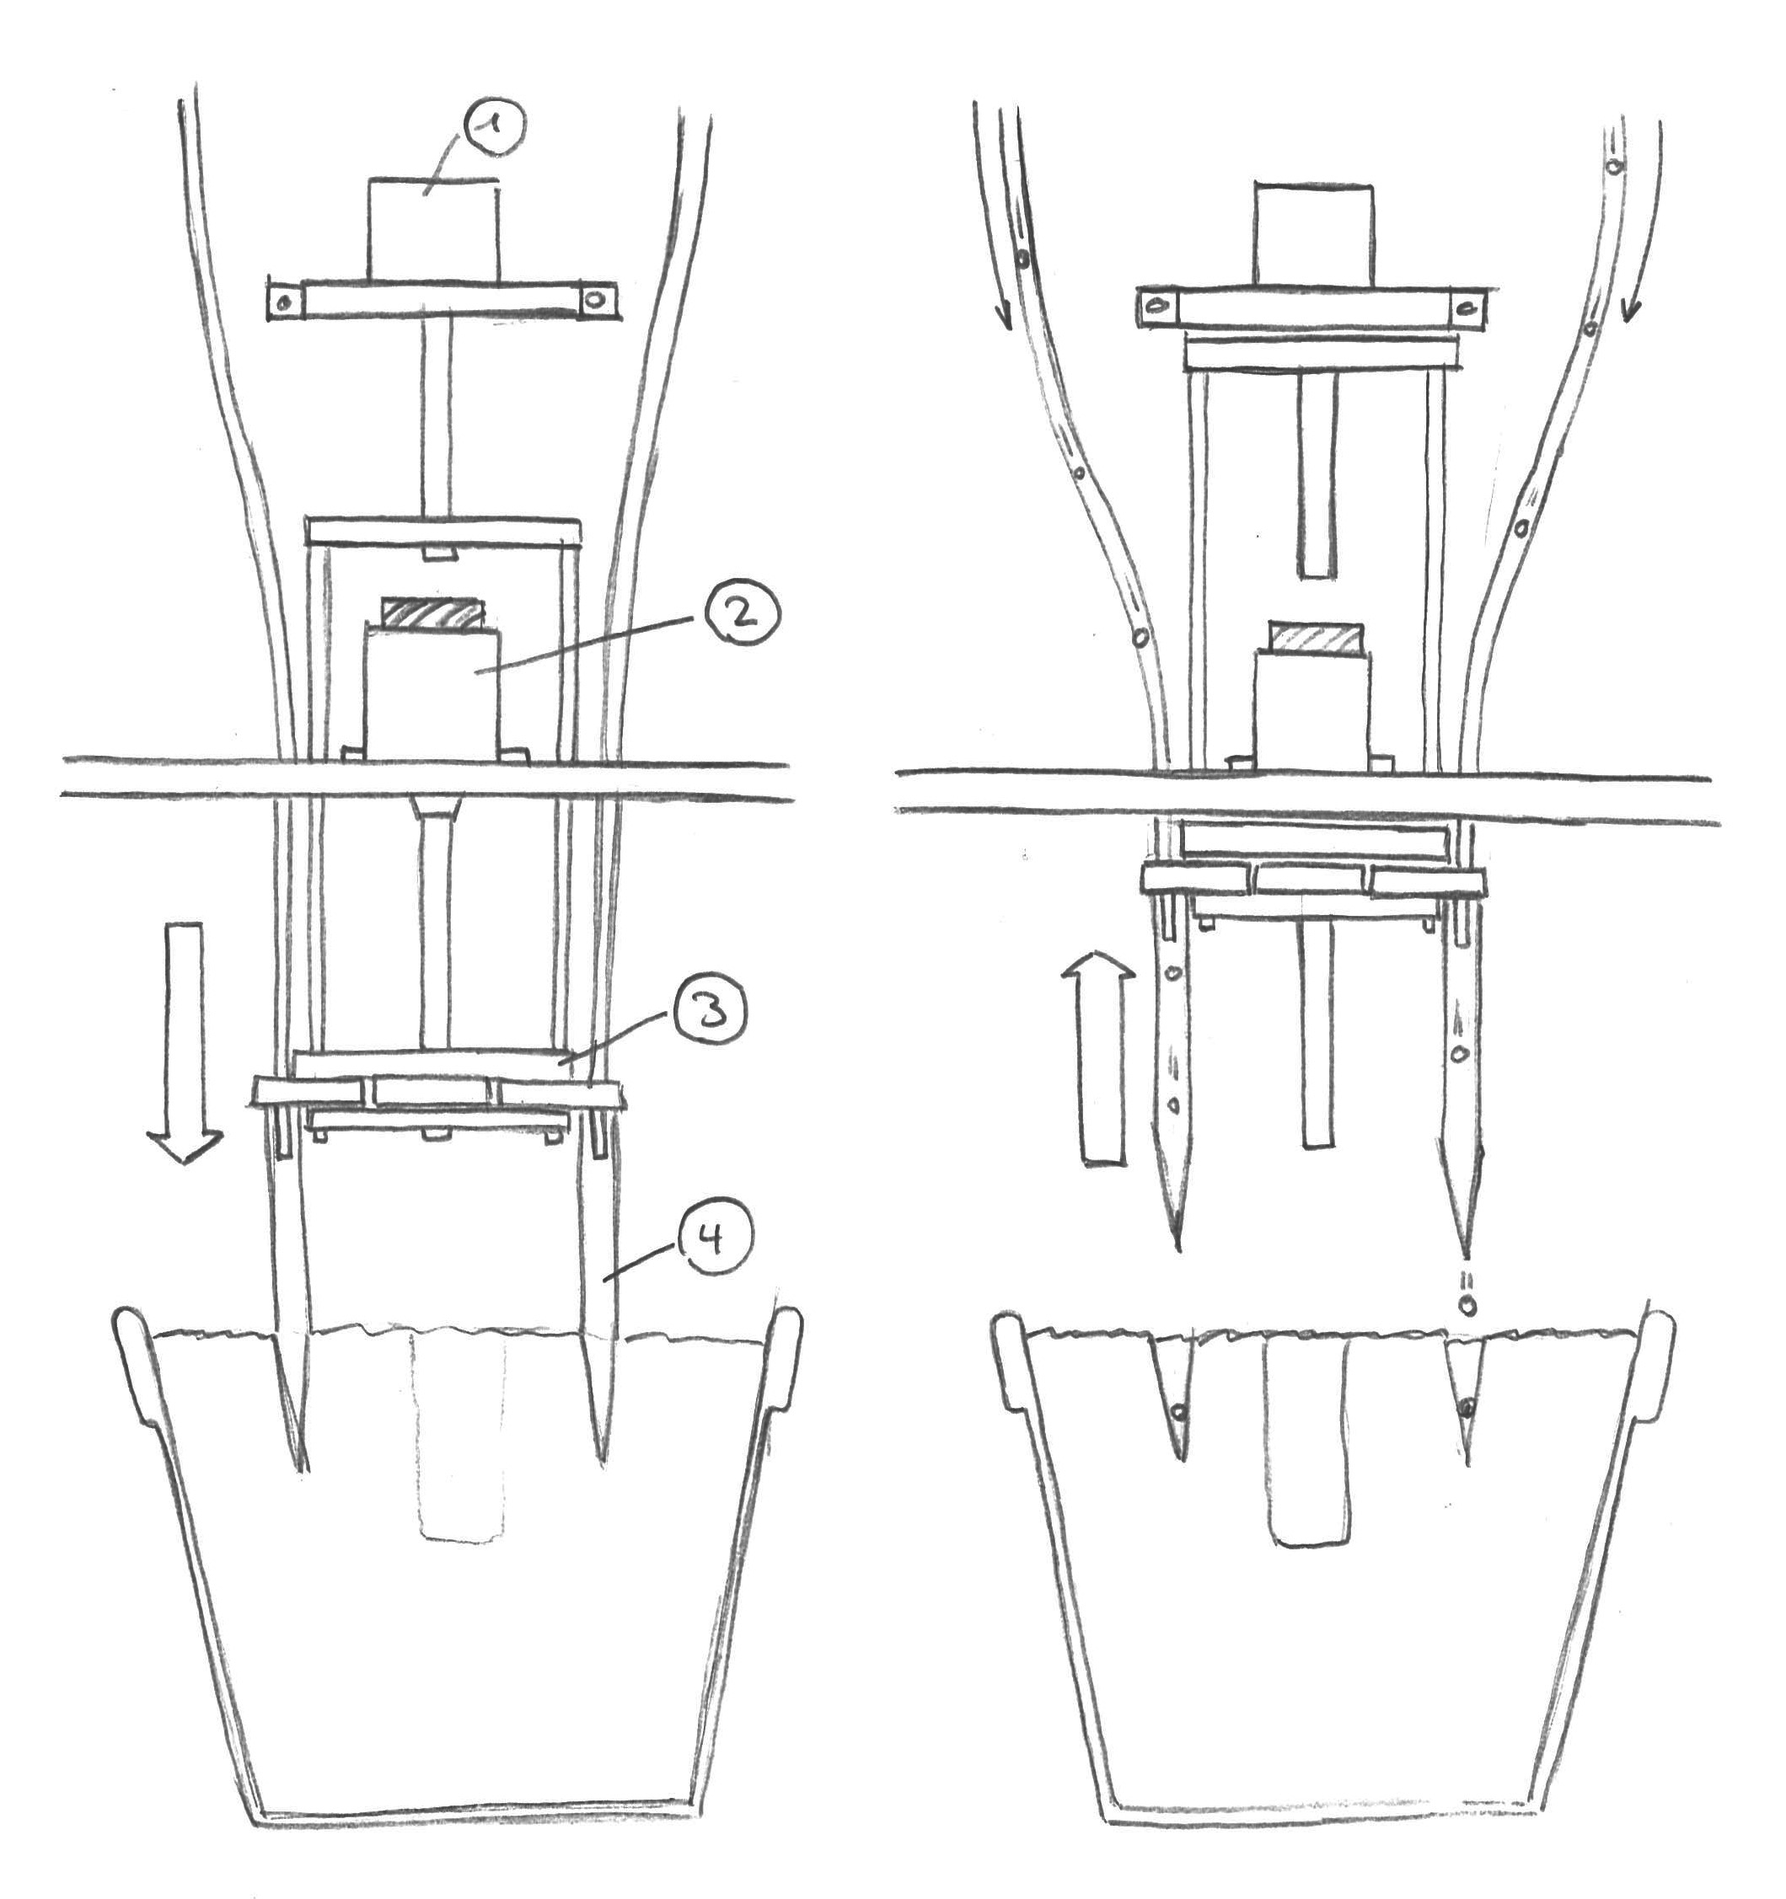
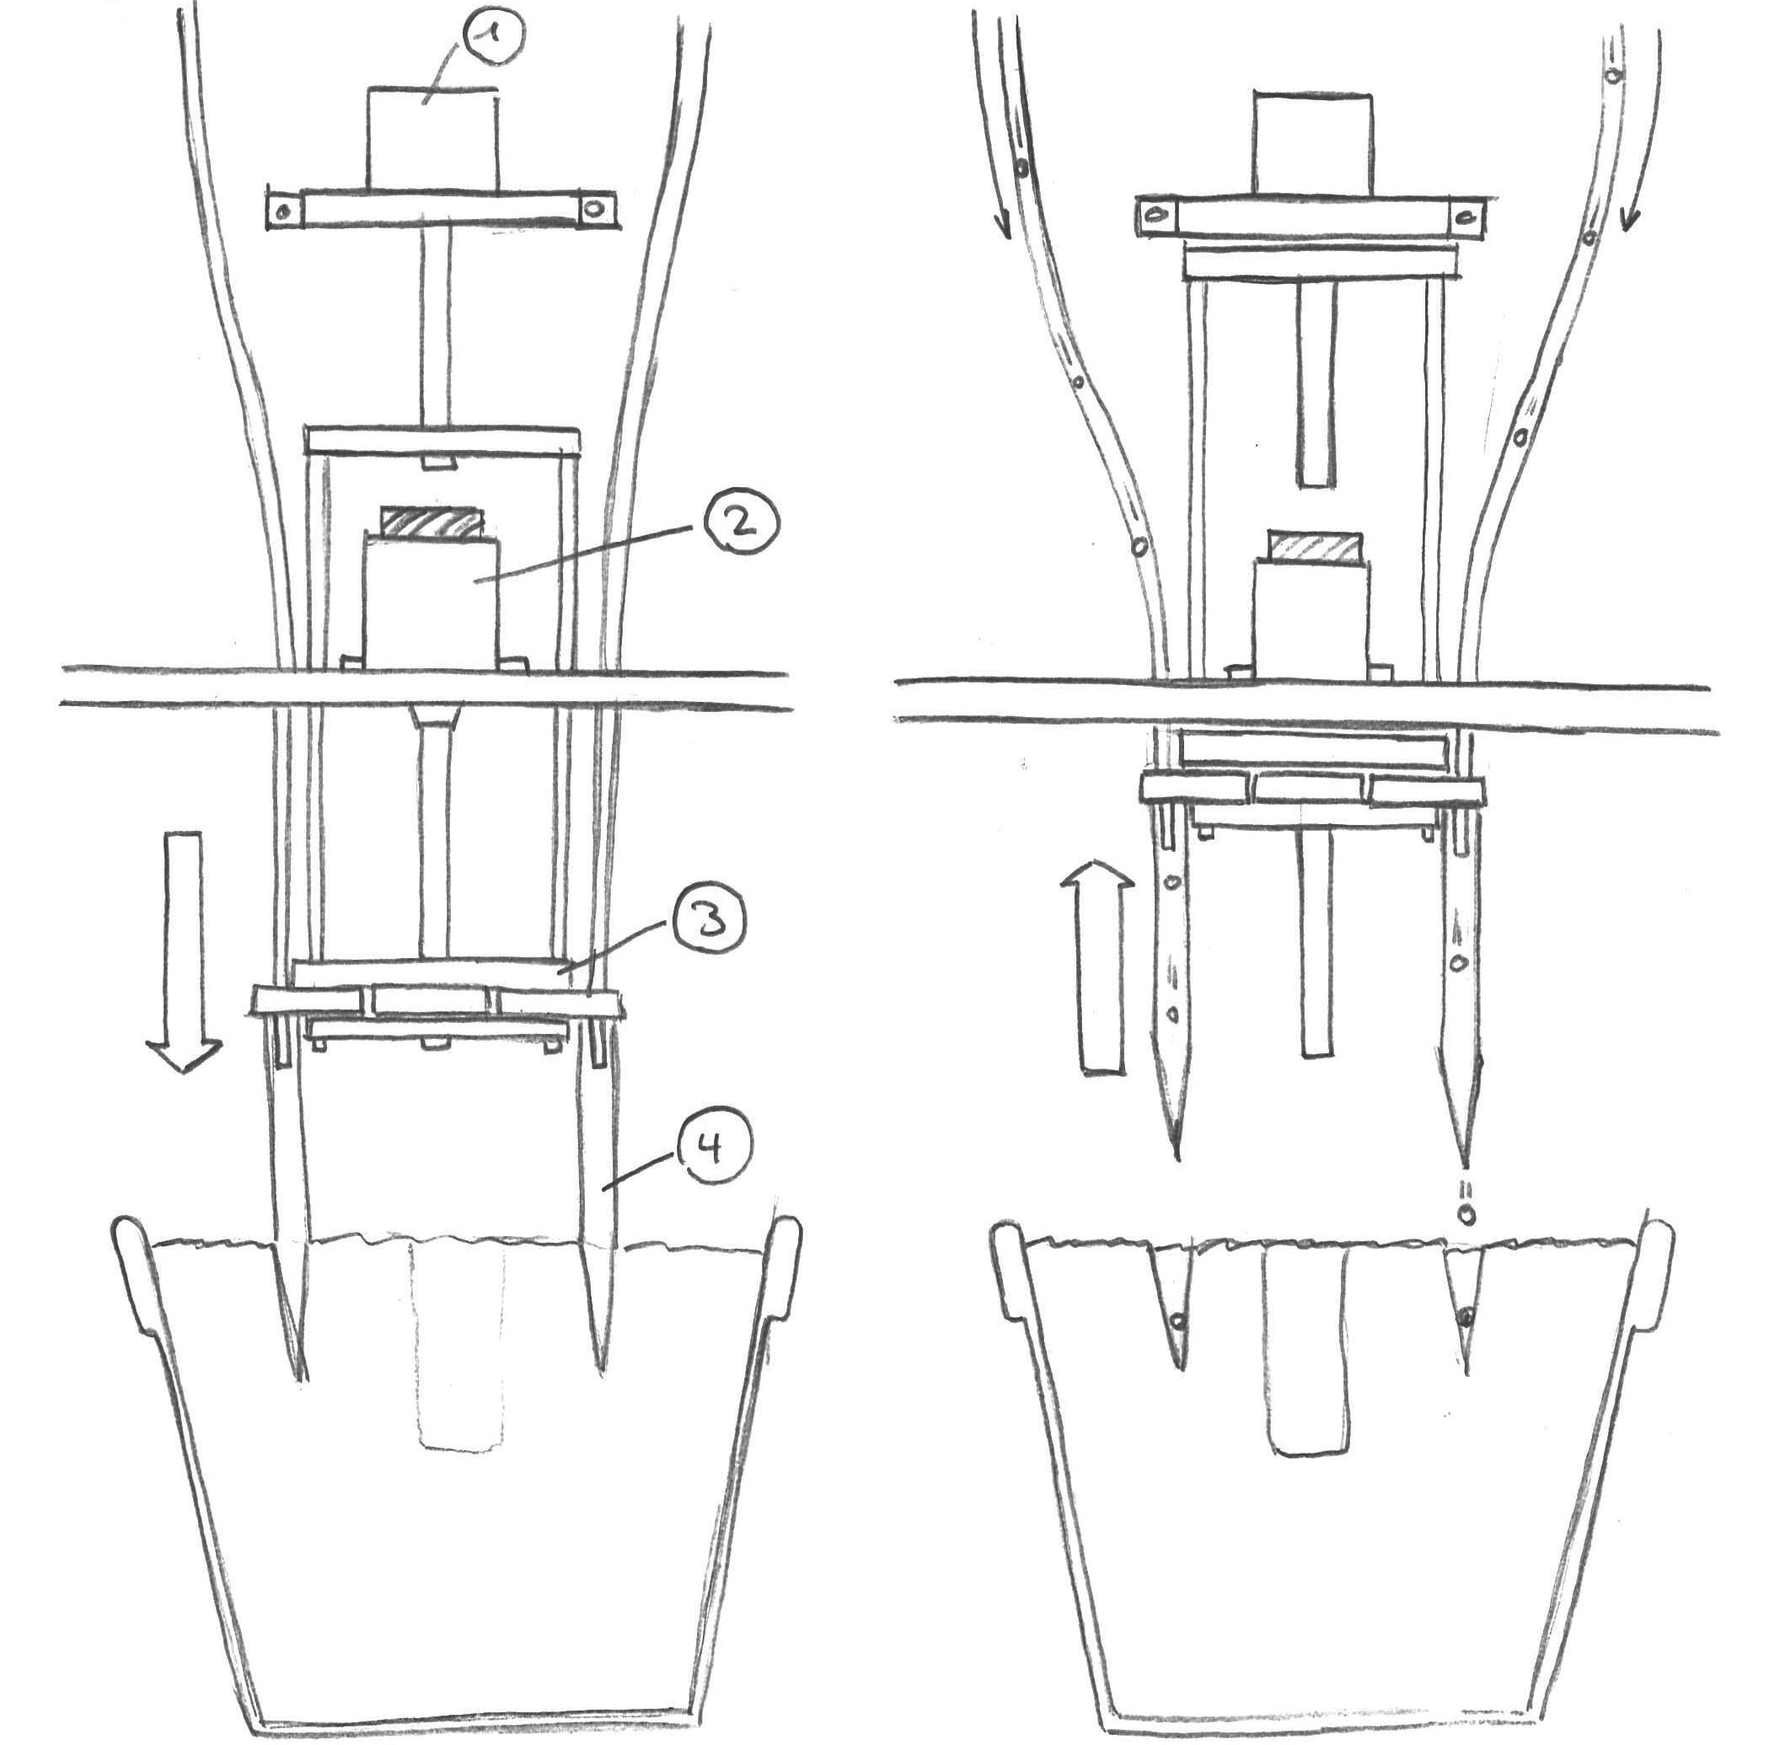
- changes in structure

diff --git a/Kapitel/5_Konzept/5.3_Konzept_Blau.tex b/Kapitel/5_Konzept/5.3_Konzept_Blau.tex
@@ -1,6 +1,6 @@
 \newpage
 \subsection{Konzept Blau}
-\textit{(pro)} In diesem Kapitel sind die Teilkomponenten von Konzept Blau illustriert und beschrieben.
+\textit{(pro)} In diesem Kapitel sind die Komponenten von Konzept Blau illustriert und beschrieben.
 
 
 \subsubsection{Vereinzelung mittels rotierender Lochmaske}
@@ -17,28 +17,28 @@ Dieses Konzept wird von der Firma Kofatec GmbH erfolgreich für die Vereinzelung
 Der Setzprozess von Konzept blau besteht aus zwei Phasen.
 
 \begin{itemize}
-	\item \textbf{Ausheben des Setzloches:} In diesem Arbeitsschritt wird die Setzeinheit, durch eine entsprechend translatorisch gelagerte Führung, vertikal in Richtung Topf bewegt. Durch die auf der Setzeinheit zu unterst montierten Stechdornen (Abb. \ref{fig:blau_setzeinheit}, 4) werden drei Löcher in die Topferde gestochen. Beim anschliessenden Anhaben der Setzeinheit behalten die Löcher, aufgrund der feuchten Beschaffenheit der Topferde, ihre Kegelförmige Silhouette.
-	
+	\item \textbf{Ausheben des Setzloches:} In diesem Arbeitsschritt wird die Setzeinheit, durch eine entsprechend translatorisch gelagerte Führung, vertikal in Richtung Topf bewegt. Durch die auf der Setzeinheit zu unterst montierten Stechdornen (Abb. \ref{fig:blau_setzeinheit}, 4) werden drei Löcher in die Topferde gestochen. Beim anschliessenden Anheben der Setzeinheit behalten die Löcher, aufgrund der feuchten Beschaffenheit der Topferde, ihre Kegelförmige Kontur.
+\newpage	
 	\item \textbf{Platzieren der Nemacaps:} Noch während sich die Setzeinheit zurück in ihre Ruheposition (Abb. \ref{fig:blau_setzeinheit}, rechts) bewegt, werden die Nemacaps durch die Vereinzelung ausgelöst. Von der Vereinzelung ausgelöst, fallen diese mit Hilfe der Schwerkraft in Richtung Setzlöcher. Die Stechdornen dienen in dieser Zeichnung zusätzlich als Führung der Fallbahn, indem sie innen Hohl sind.
 \end{itemize}
 
 \begin{figure}[H]
-	\includegraphics[width=0.9\textwidth]{Illustrationen/5-Konzept/blau_Setzeinheit_ohneLegende.jpg}
+	\includegraphics[draft=false,width=0.9\textwidth]{Illustrationen/5-Konzept/blau_Setzeinheit_ohneLegende.jpg}
 	\caption{Teilfunktionsmuster zum Setzen der NemaCaps}
 	\label{fig:blau_setzeinheit}
 \end{figure}
 
-Um die translatorische Bewegung der Setzeinheit zu realisieren, wird ein linear Antrieb benötigt. Dieser ist in der Funktionsskizze beispielhaft als Spindelantrieb ausgeführt (Abb. \ref{fig:blau_setzeinheit}, 1). Die portale Bauweise von Konzept Blau ermöglicht eine Positionierung der Verstellmechanik (Abb. \ref{fig:blau_setzeinheit}, 3) direkt oberhalb der Stechdornen. Der Antrieb der Verstellmechanik wird durch einen stationären Motor realisiert (Abb. \ref{fig:blau_setzeinheit}, 2), welcher eine Keilnabe antreibt. Die bewegte Verstellmechanik wird über die entsprechende Keilnabe angetrieben.
+Um die translatorische Bewegung der Setzeinheit zu realisieren, wird ein linear Antrieb benötigt. Dieser ist in der Funktionsskizze beispielhaft als Spindelantrieb ausgeführt (Abb. \ref{fig:blau_setzeinheit}, 1). Die portale Bauweise von Konzept Blau ermöglicht eine Positionierung der Verstellmechanik (Abb. \ref{fig:blau_setzeinheit}, 3) direkt oberhalb der Stechdornen. Der Antrieb der Verstellmechanik wird durch einen stationären Motor realisiert (Abb. \ref{fig:blau_setzeinheit}, 2), welcher eine Keilwelle antreibt. Die bewegte Verstellmechanik wird über die entsprechende Keilnabe angetrieben.
 
 \subsubsection{Setzmechanismus konfigurieren}
 Durch die Verstellmechanik Abb. \ref{fig:blau_verstellmech} können die Stechdornen der Setzeinheit auf verschiedene Stechradien eingestellt werden. Die Verstellbarkeit kann dabei dabei durch die Verwendung verschiedener Mechanismen realisiert werden. 
 \begin{figure}[H]
-	\includegraphics[scale=0.45]{Illustrationen/5-Konzept/blau_Verstellmechanismus.jpg}
+	\includegraphics[scale=0.55]{Illustrationen/5-Konzept/blau_Verstellmechanismus.jpg}
 	\caption{Teilfunktionsmuster zum konfigurieren des Setzradius}
 	\label{fig:blau_verstellmech}
 \end{figure}
 
-Im folgende Abschnitt sind ein paar Gedankengänge für das Design der Verstellmechanik aufgelistet:
+In folgender Auflistung sind ein paar Ideen für das Design der Verstellmechanik genannt:
 
 \begin{itemize}
 	\item Es könnte eine Art Planetengetriebe, ohne dessen Hohlrad verwendet werden. Hierbei würde die Drehbewegung der Keilnabe mittels eines Übersetzungsverhältnis an die Stechdornen weitergegeben. Diese müssten dabei exzentrisch auf ihrem jeweiligen Planetenrad angeordnet sein.

diff --git a/Kapitel/5_Konzept/5.8_Evaluation_der_Komponenten.tex b/Kapitel/5_Konzept/5.8_Evaluation_der_Komponenten.tex
@@ -75,7 +75,7 @@ Die hohen Anforderung an die Dynamik des Antriebs stellen nebst den Leistungsdat
 Eine Lösung mit Schrittmotor wäre aufgrund der einfachen Ansteuerung, bei den geforderten Leistungsdaten die günstigste Variante. Da Schrittmotoren keine Feedback Sensorik zur Regelung der Drehzahl benötigen. Entscheidender Nachteil von Schrittmotoren ist deren schlechteres dynamisches Verhalten. So nimmt das Drehmoment bei steigender Drehzahl ab. Weiter kann ein Schrittmotor, durch das Risiko eines Schrittverlustes, bei gleichem Nennmoment nicht so stark beschleunigt werden wie beispielsweise ein DC oder BLDC Motor. Schrittmotoren müssen bezogen auf die Leistungsdaten demnach um ein vielfaches höher ausgelegt werden als sie effektiv im normalen Betrieb benötigen. Ein weiterer negativer Punkt von Schrittmotoren ist ihre schlechte Laufruhe. Diese kann durch die Verwendung von Microsteps verbessert werden, führt dann jedoch wieder zu einem Drehmomentverlust. 
 
 \begin{figure}[H]
-	\includegraphics[width=1\textwidth]{Illustrationen/5-Konzept/Motorentypen.png}
+	\includegraphics[draft=false,scale=0.55]{Illustrationen/5-Konzept/Motorentypen.png}
 	\caption{Übersicht Motorentypen \protect\cite{Motorentypen}}
 	\label{fig:Motorentypen}
 \end{figure}
@@ -122,7 +122,7 @@ Für die Spannungsversorgung kommt das 36V Netzteil von Mean Well mit der Typenb
 
 
 \subsubsection{Vereinzelung und Verstellmechanik}
-\textit{(pro)} Die beiden Maschinenteile Vereinzelung und Verstellmechanik wurden in einem Kapitel zusammengefasst, weil sie ähnliche Anforderungen an den Antrieb stellen. Gemäss Abbildung \ref{fig:Motorentypen} über die verschiedenen Motorentypen kommen auch hier wieder dieselben Kriterien zur Auswahl des geeigneten Motorentypes zum Einsatz. Das erforderliche Drehmoment für die beiden Funktionen zu schätzen ist sehr schwierig, da lediglich Reibungsdrehmomente als Last vorliegen. Für beide Maschinenteile wurden deshalb DC-Getriebemotoren mit Encoder als die beste Lösung evaluiert. Sie entwickeln bei minimalen Kosten durch die Getriebeübersetzung ein hohes Drehmoment welches eine sichere Funktion garantiert. Die minimale Drehzahl für die Vereinzelung ergibt sich aus der Anzahl Töpfe pro Minute, der Anzahl Lochreihen pro Umdrehung der Lochmaske und einen Sicherheitsfaktor S für die Zeit, in welcher die Lochmaske still stehen soll um die NemaCaps fallen zu lassen:
+Die beiden Maschinenteile Vereinzelung und Verstellmechanik wurden in einem Kapitel zusammengefasst, weil sie ähnliche Anforderungen an den Antrieb stellen. Gemäss Abbildung \ref{fig:Motorentypen} über die verschiedenen Motorentypen kommen auch hier wieder dieselben Kriterien zur Auswahl des geeigneten Motorentypes zum Einsatz. Das erforderliche Drehmoment für die beiden Funktionen zu schätzen ist sehr schwierig, da lediglich Reibungsdrehmomente als Last vorliegen. Für beide Maschinenteile wurden deshalb DC-Getriebemotoren mit Encoder als die beste Lösung evaluiert. Sie entwickeln bei minimalen Kosten durch die Getriebeübersetzung ein hohes Drehmoment welches eine sichere Funktion garantiert. Die minimale Drehzahl für die Vereinzelung ergibt sich aus der Anzahl Töpfe pro Minute, der Anzahl Lochreihen pro Umdrehung der Lochmaske und einen Sicherheitsfaktor S für die Zeit, in welcher die Lochmaske still stehen soll um die NemaCaps fallen zu lassen:
 
 \begin{equation}
 	n = \frac{ N_{Toepfe pro Minute}}{ N_{Lochreihen}} \cdot S  = \frac{60\frac{1}{min}}{6} \cdot 3 = 30\frac{1}{min}

diff --git a/Kapitel/5_Konzept/5.4_Funktionsnachweis_krit._Funktionen.tex b/Kapitel/5_Konzept/5.4_Funktionsnachweis_krit._Funktionen.tex
@@ -2,6 +2,7 @@
 \label{funktionsnachweis}
 \textit{(ygu)} Dieses Unterkapitel befasst sich mit dem praktischen Nachweis von kritischen Teilfunktionen. Kritische Teilfunktionen sind Funktionen, welche bei einem Ausfall, einen Ausfall des Gesamtsystems zur Folge hat. Daher wird die technische Machbarkeit dieser Teillösungen zusätzlich überprüft. Einfach aufgebaute aber funktionell ähnliche Versuche werden realisert. An diesen Aufbauten wird dann der praktische Nachweis erbracht, ob die techische Umsetzbarkeit realistisch erscheint. Diese Beurteilung wird für Bewertung der ausgearbeiteten Lösungskonzepte miteinbegezogen.
 \newline
+
 Bei Betrachtung der Funktionsanalysen (Abbildungen \ref{fig:FunktPflicht} und \ref{fig:FunktWunsch}) ist erkennbar, dass beide Varianten (Pflicht sowie Wunsch) eine Serieschaltung darstellen.  Bei der Umsetzung einer Maschine mit einfacher Redundanz ergibt dies implizit, dass jede Funktion als kritisch eingestuft wird. Aus zeitlichen Gründen kann ein umfassenden Nachweis von allen Teillösungskonzepten nicht abschliessend durchgeführt werden. Für den Nachweis ist eine pragmatische Auswahl notwendig. Es werden daher nur Funktionen mit erhöhtem Ausfallrisiko und einer vielversprechenden Funktionserfüllung überprüft.
 
 \subsubsection{NemaCaps vereinzeln und fördern}
@@ -119,7 +120,9 @@ Folgende Erkenntnisse lieferte das Funktionsmuster:
 	
 	\item Am Rand der Kulisse nimmt der Kraftaufwand für eine Verstellung deutlich zu. Es kommt auch vor, dass die Kulisse am Rand kaum in Bewegung gerät. Dies ist damit erklärbar, dass an diesem Punkt die Wirkungslinien der Kulissen normal zueinander stehen und so kein Moment auf die äussere Kulisse wirken kann. Bei einer allfälligen Umsetzung müssen die Wirkungslinien der Kulissen möglichst parallel verlaufen. 
 \end{itemize} 
-\subsubsection{Topferkennung} \label{sec:Topferkennung_ProveOfConcept}
+\newpage
+\subsubsection{Topferkennung} 
+\label{sec:Topferkennung_ProveOfConcept}
 \textit{(pro)} Als Sensor für die Topferkennung wurde der IR Distanzsensor von Sharp mit der Typenbezeichnung GP2Y0A41SK0F verwendet. Dabei wurde der genannte IR-Sensor mit einem ADC Port des FRDM-Boards verbunden. Es wurde eine Testmessung durchgeführt in der ein Blumentopf mit 14cm Durchmesser vor dem IR-Sensor, mit zwei verschiedenen Geschwindigkeiten, vorbeigeführt wurde. 
 
 \begin{figure}[H]

diff --git a/Kapitel/5_Konzept/5.5_Bewertung.tex b/Kapitel/5_Konzept/5.5_Bewertung.tex
@@ -33,9 +33,10 @@
 \end{enumerate}
 
 \subsubsection{Definition und Gewichtung der Kriterien}
-\textit{(ygu)} Bei der Definition der Kriterien ist darauf zu achten, dass jedes einzelne Kriterium relevant für die grundlegende Aufgabenstellung ist.
+Bei der Definition der Kriterien ist darauf zu achten, dass jedes einzelne Kriterium relevant für die grundlegende Aufgabenstellung ist.
 Als Orientierung wurde die „Leitlinie mit Hauptmerkmalen zum Bewerten in der Konzeptionsphase“ verwendet \cite{pahl}. 
 \newline
+
 Die Kriterien beinhalten folgende Punkte:
 \begin{itemize}
 	\item Komplexität
@@ -71,7 +72,7 @@ Die Kriterien beinhalten folgende Punkte:
 	
 	\item Alternativprodukte sind verfügbar
 	\end{itemize}
-
+\newpage
 	\item Innovationsgrad
 	\begin{itemize}
 	\item Innovatives Gesamtkonzept
@@ -174,7 +175,7 @@ Für die bessere Nachvollziehbarkeit der einzelnen Punkte wird auf jedes Kriteri
 	
 	\item Aufgrund der gewonnenen Erkenntnisee der Funktionsnachweise erscheinen die Konzepte Grün und Blau als machbar (gut). 
 \end{itemize}
-
+\newpage
 \textbf{Kosten:}
 \begin{itemize}
 	\item Pneumatikkomponenten sind teuer. Weiter fehlen an der Grundausstattung der Topfmaschine Pneumatikanschlüsse, was die Kosten von Konzept Grau weiter erhöht.
@@ -204,4 +205,4 @@ Für die bessere Nachvollziehbarkeit der einzelnen Punkte wird auf jedes Kriteri
 \end{itemize}
 
 \subsubsection{Entscheid}
-Aufgrund der ausgeführten Nutzwertanalyse (vgl. Kap. \ref{nutzwert}) wird entschieden, welches Konzept während der vorliegenden Bachelorarbeit realisiert wird. Umgesetzt wird das Konzept mit der besten Gesamtnote. Somit wird in der Umsetzungsphase \textbf{Konzept Blau} realisiert (vgl. Tab. \ref{tab:nutzwert}).
+Aufgrund der ausgeführten Nutzwertanalyse (vgl. Kap. \ref{nutzwert}) wird entschieden, welches Konzept während der vorliegenden Bachelorarbeit realisiert wird. Umgesetzt wird das Konzept mit der besten Gesamtnote. Somit wird in der Umsetzungsphase \textbf{Konzept Blau} realisiert (vgl. Tabelle \ref{tab:nutzwert}).

diff --git a/Kapitel/5_Konzept/5.9_Software.tex b/Kapitel/5_Konzept/5.9_Software.tex
@@ -1,6 +1,6 @@
 \subsection{Software} \label{kap:Software}
 
-\textit{(pro)} Die Software des Planting Robots ist in der Programmiersprache C geschrieben und läuft auf dem ARM Cortex M0+ Mikrocontroller von NXP welcher auf dem FRDM-Board KL25Z (siehe Abb. \ref{fig:FRDM-KL25Z}) bestückt ist. Das FRDM-Board wird verwendet, weil damit schon im Modul PREN Erfahrungen gesammelt werden konnten. Ausserdem wird im Programmier-Modul INTRO auf Basis der Kinetis Mikrocontroller Familie Software entwickelt.
+Die Software des Planting Robots ist in der Programmiersprache C geschrieben und läuft auf dem ARM Cortex M0+ Mikrocontroller von NXP welcher auf dem FRDM-Board KL25Z (siehe Abb. \ref{fig:FRDM-KL25Z}) bestückt ist. Das FRDM-Board wird verwendet, weil damit schon im Modul PREN Erfahrungen gesammelt werden konnten. Ausserdem wird im Programmier-Modul INTRO auf Basis der Kinetis Mikrocontroller Familie Software entwickelt.
 
 \begin{figure}[H]
 	\includegraphics[width=0.6\textwidth]{Illustrationen/5-Konzept/FRDM-KL25Z.jpg}

diff --git a/Kapitel/5_Konzept/5.7_Elektrotechnik.tex b/Kapitel/5_Konzept/5.7_Elektrotechnik.tex
@@ -1,5 +1,5 @@
 \subsection{Elektronik}
-\textit{(pro)} Zur Übersicht der verwendeten Elektronik Hardware dient das Blockschaltbild Abb. \ref{fig:Blockschaltbild_Komponenten}. Es bildet eine Auflistung sämtlicher Elektronik Komponenten, welche in Blöcke zusammengefasst sind. Detaillierte Angaben zu den jeweiligen Komponenten, sowie Schaltungen finden sich in den Kapiteln \ref{kap:Evaluation_der_Komponenten} und \ref{kap:Umsetzung}. 
+Zur Übersicht der verwendeten Elektronik Hardware dient das Blockschaltbild Abb. \ref{fig:Blockschaltbild_Komponenten}. Es bildet eine Auflistung sämtlicher Elektronik Komponenten, welche in Blöcke zusammengefasst sind. Detaillierte Angaben zu den jeweiligen Komponenten, sowie Schaltungen finden sich in den Kapiteln \ref{kap:Evaluation_der_Komponenten} und \ref{kap:Umsetzung}. 
 
 
 \begin{figure}[H]
